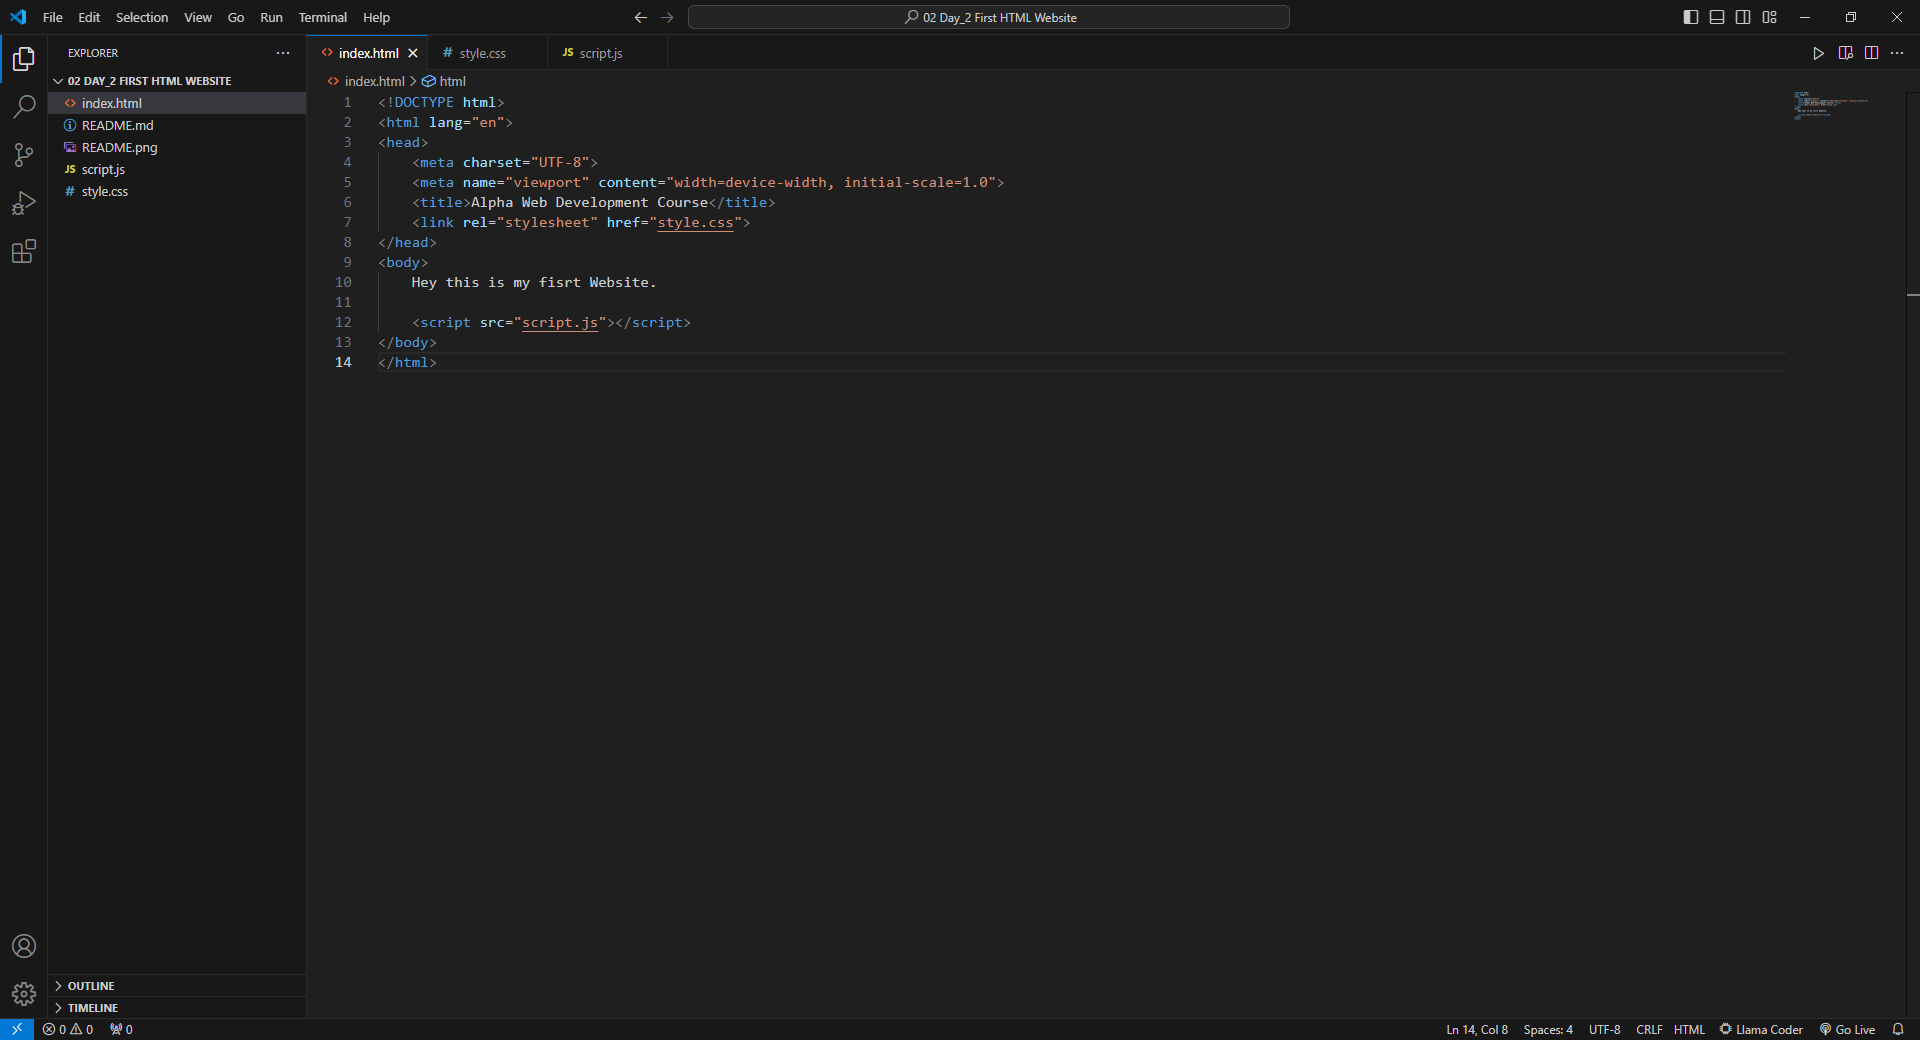
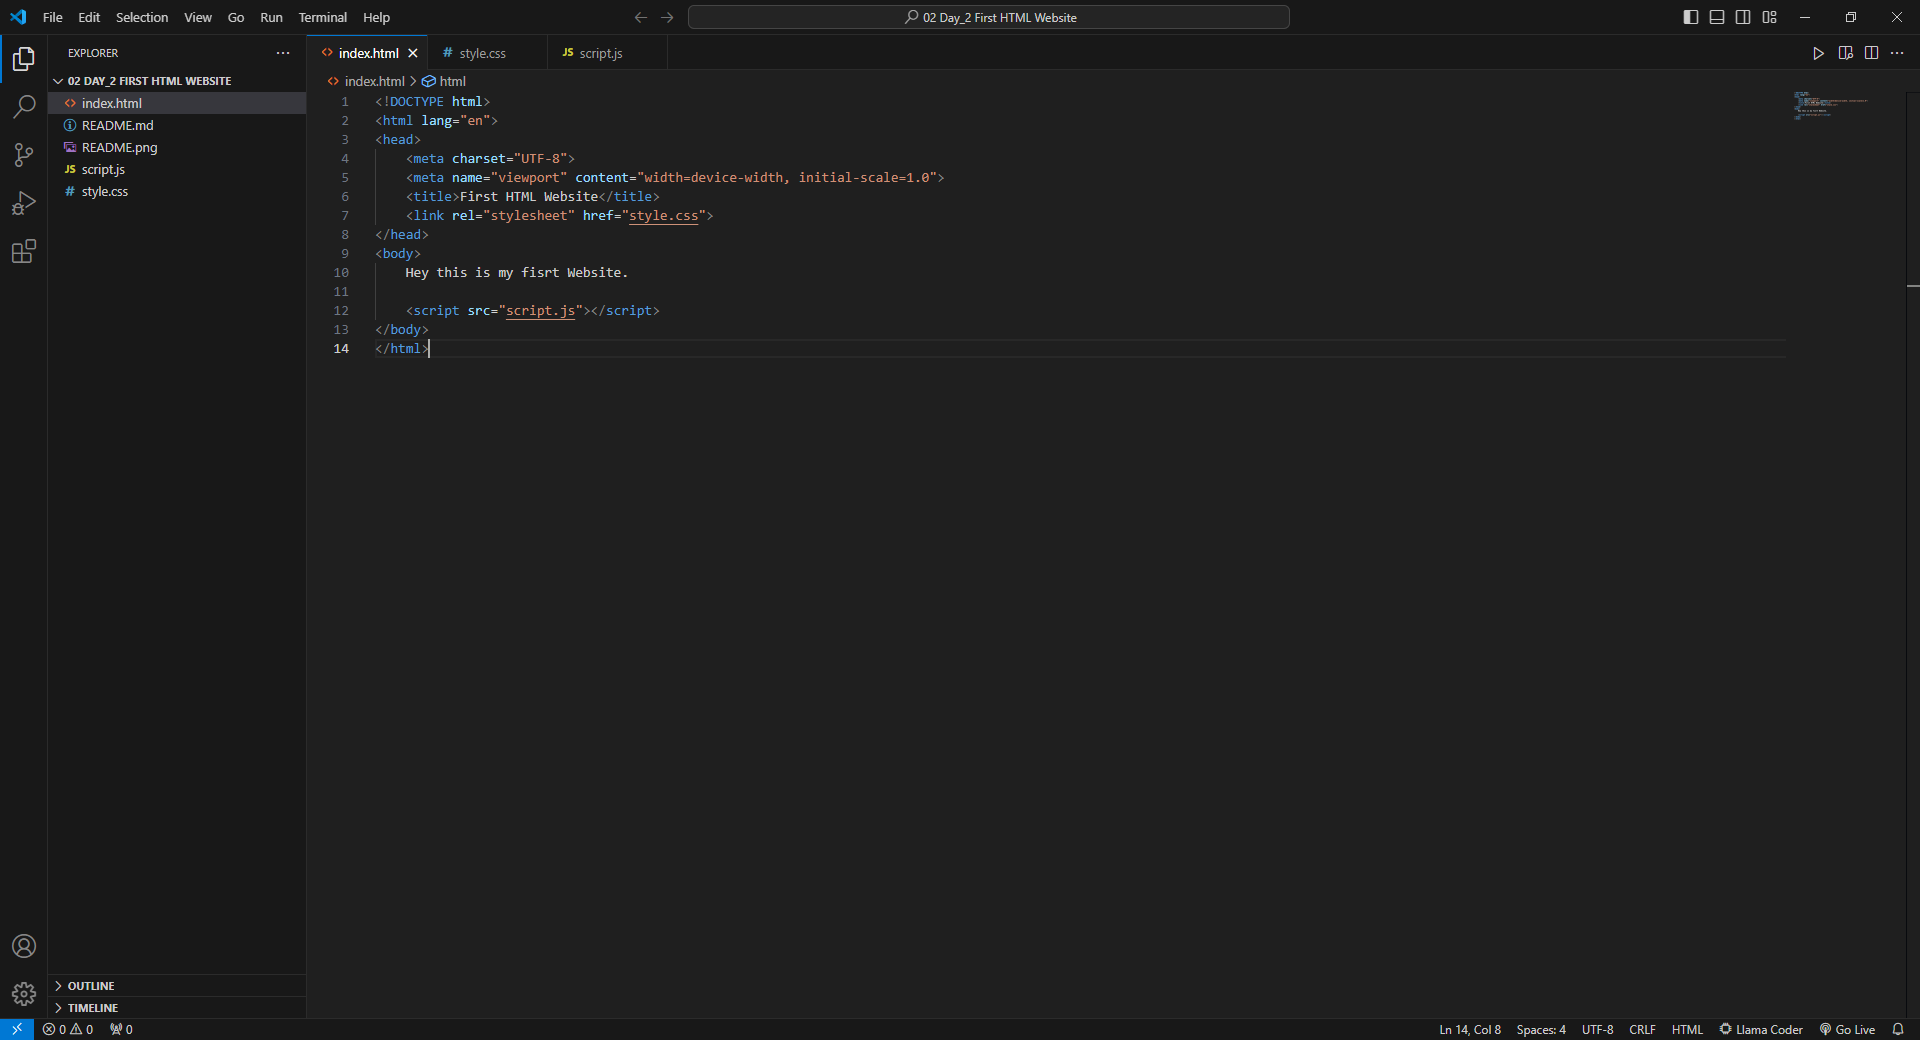
class_2

Changed region(s): [[0.1562, 0.1538, 0.5, 0.3692], [0.75, 0.9846, 0.9062, 1.0], [0.1875, 0.0923, 0.2812, 0.1538]]

diff --git a/02 Day_2 First HTML Website/index.html b/02 Day_2 First HTML Website/index.html
@@ -3,7 +3,7 @@
 <head>
     <meta charset="UTF-8">
     <meta name="viewport" content="width=device-width, initial-scale=1.0">
-    <title>Alpha Web Development Course</title>
+    <title>First HTML Website</title>
     <link rel="stylesheet" href="style.css">
 </head>
 <body>

diff --git a/02 Day_2 First HTML Website/README.md b/02 Day_2 First HTML Website/README.md
@@ -1,3 +1,3 @@
-# Alpha Web Development Course
+# First HTML Website
 
 ![Alt text](README.png)
